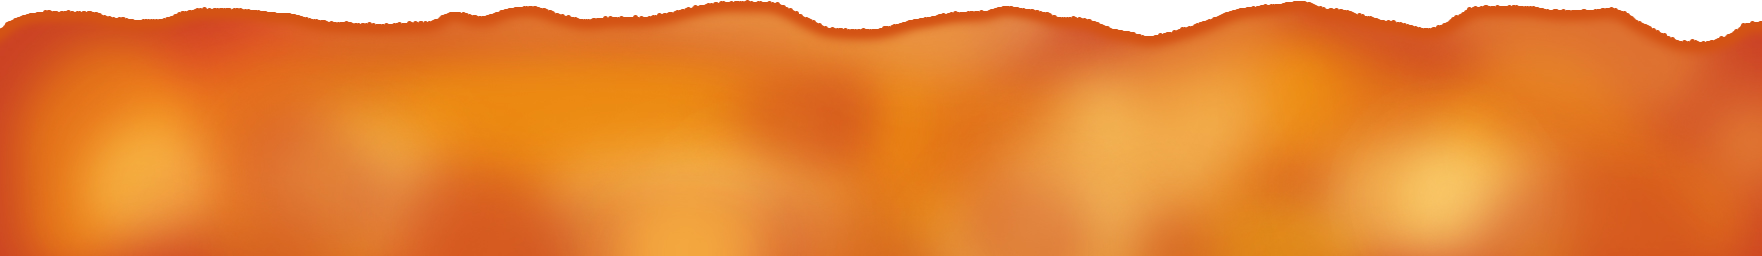
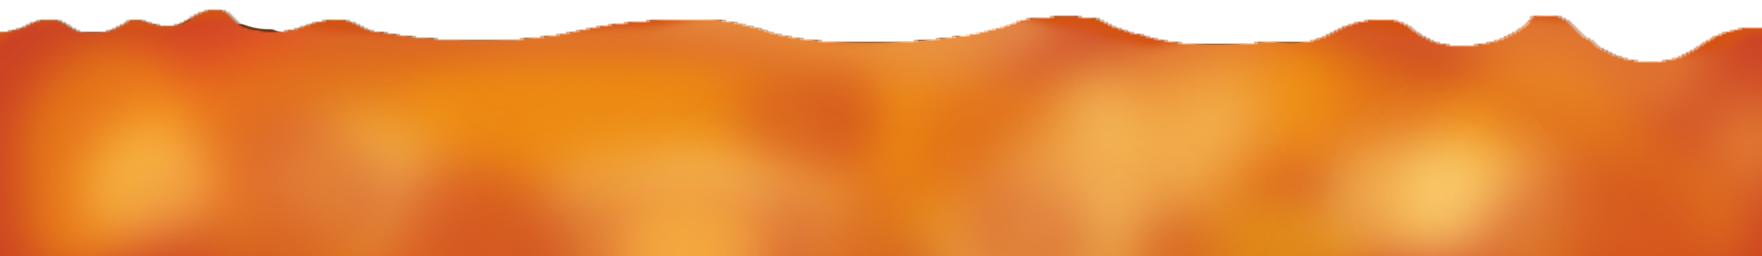
Update graphic design magma and obstacle

Changed region(s): [[0.0, 0.0, 0.6243, 0.1875], [0.6243, 0.0, 1.0, 0.25]]

diff --git a/src/SeriousGame/Objects/Obstacle.cs b/src/SeriousGame/Objects/Obstacle.cs
@@ -9,7 +9,6 @@ namespace SeriousGame
     {
         private int _question;
         private Vector2 _position;
-        private Color _color;
         private Texture2D _texture;
 
         private SpriteFont _font;
@@ -17,11 +16,10 @@ namespace SeriousGame
         private PopUp _popUp;
         private Boolean _done;
 
-        public Obstacle(Color color, Vector2 position, int question)
+        public Obstacle(Vector2 position, int question)
         {
             _question = question;
             _position = position;
-            _color = color;
             _texture = TextureManager.Obstacle;
             _font = FontManager.Verdana;
             _fontBold = FontManager.VerdanaBold;
@@ -41,7 +39,7 @@ namespace SeriousGame
 
         public void Draw(SpriteBatch spritebatch, int offset)
         {
-            spritebatch.Draw(_texture, new Vector2(200, _position.Y + offset), _color);
+            spritebatch.Draw(_texture, new Vector2(190, _position.Y + offset));
         }
 
         public Rectangle BoundingBox

diff --git a/src/SeriousGame/Objects/Magma.cs b/src/SeriousGame/Objects/Magma.cs
@@ -54,7 +54,7 @@ namespace SeriousGame
 
             for (int i = 0; i < Math.Ceiling(iterations); i++)
             {
-                spriteBatch.Draw(_magmaTexture, new Vector2(JumpScreen.Padding, bottomScreen + offset - magmaHeight + _magmaTexture.Height * i));
+                spriteBatch.Draw(_magmaTexture, new Vector2(JumpScreen.Padding-5, bottomScreen + offset - magmaHeight + _magmaTexture.Height * i));
             }
         }
     }

diff --git a/src/SeriousGame/Screens/JumpScreen.cs b/src/SeriousGame/Screens/JumpScreen.cs
@@ -48,7 +48,7 @@ namespace SeriousGame
             for (int i = 1000; i > gameHeight * -1; i -= 2000)
             {
                 question++;
-                obstacles.Add(new Obstacle(Color.Red, new Vector2(50, i), question));
+                obstacles.Add(new Obstacle(new Vector2(50, i), question));
             }
         }
 
